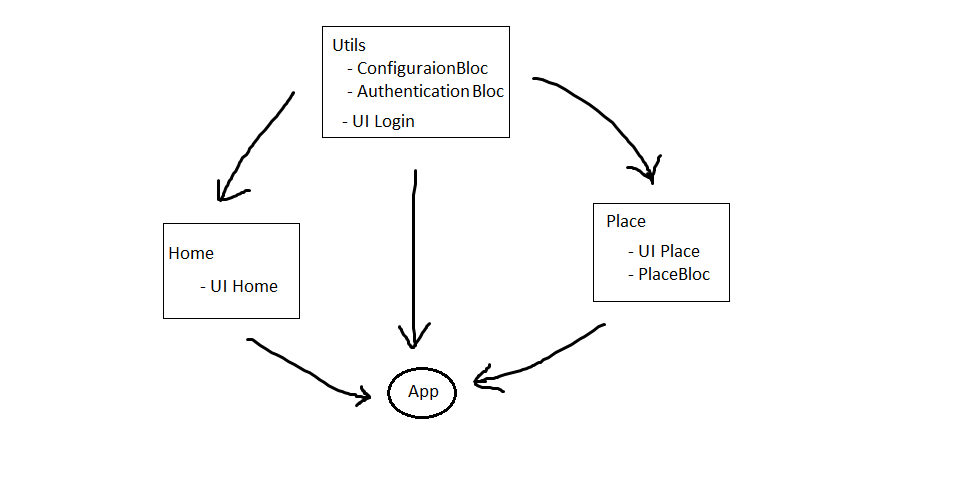
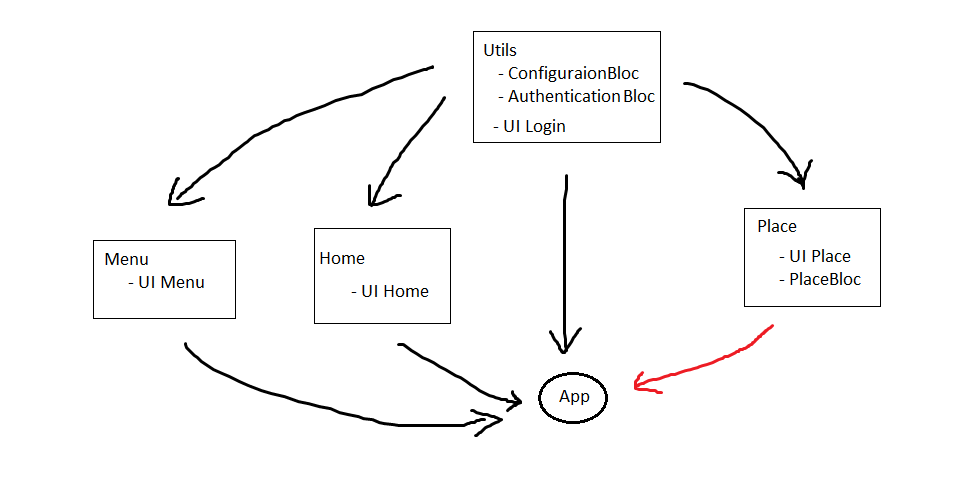
update module

diff --git a/lib/src/views/main_page.dart b/lib/src/views/main_page.dart
@@ -2,11 +2,11 @@
 
 import 'package:flutter/material.dart';
 import 'package:vncitizens/src/views/center_page.dart';
-import 'package:vncitizens/src/views/menu_page.dart';
 import 'package:vncitizens/src/views/notification_page.dart';
 import 'package:vncitizens/src/views/setting_page.dart';
 import 'package:home/views/home_page.dart';
 import 'package:place/views/place_page.dart';
+import 'package:menu/menu_page.dart';
 
 class MainPage extends StatefulWidget {
   const MainPage({Key? key}) : super(key: key);
